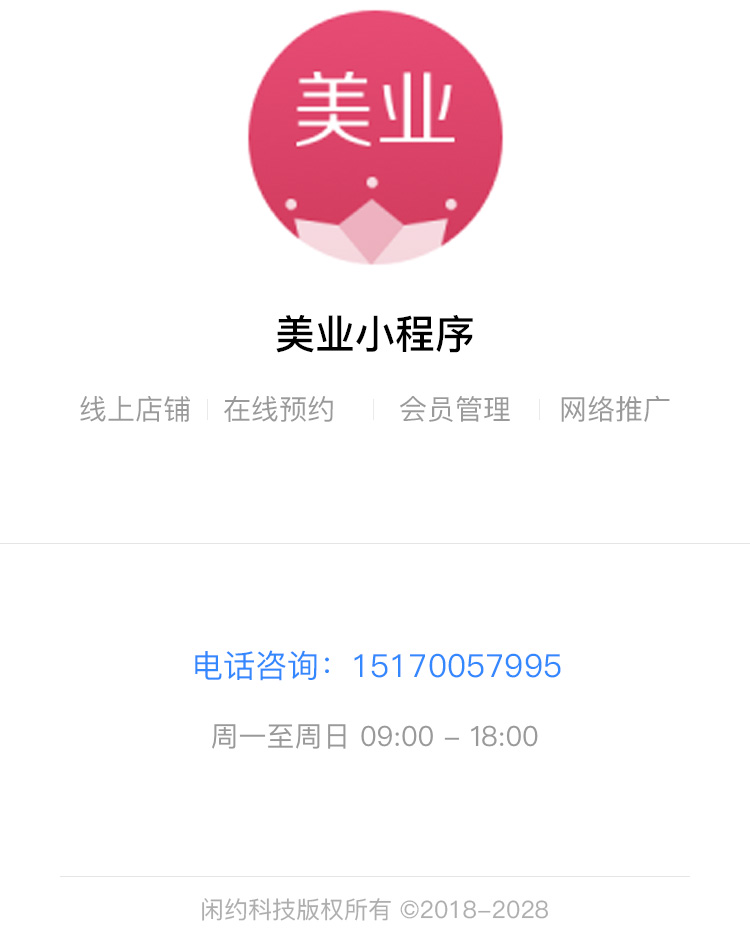
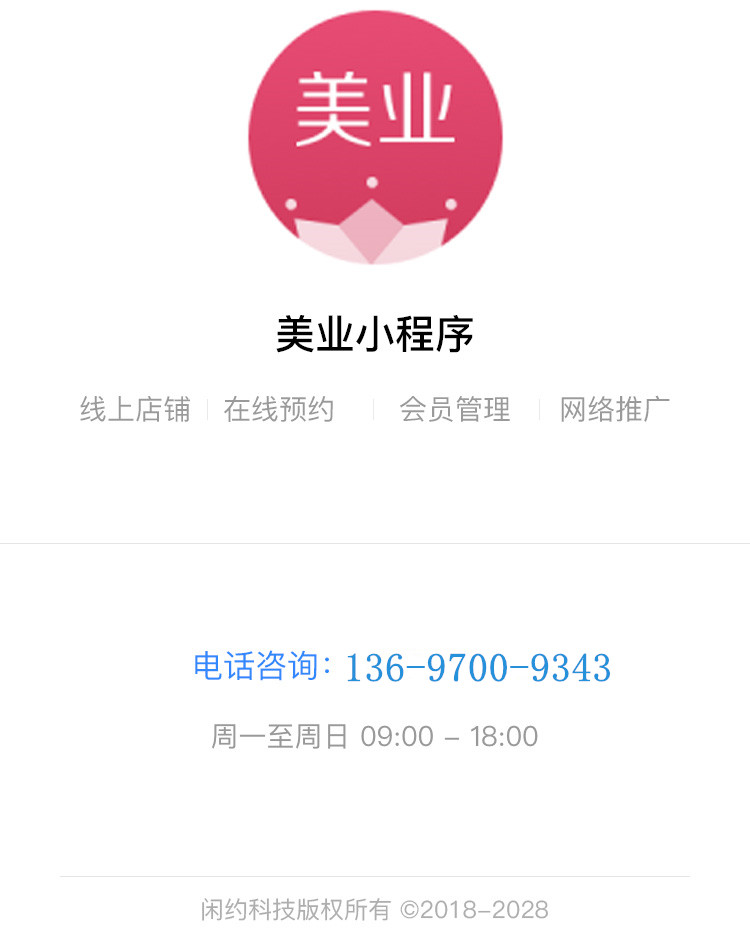
更换联系电话

Changed region(s): [[0.46, 0.6709, 0.828, 0.7319]]

diff --git a/packageA/company-introduction/company-introduction.js b/packageA/company-introduction/company-introduction.js
@@ -12,7 +12,7 @@ Page({
     },
     onClickPhoneCounsel:function(event){
         wx.makePhoneCall({
-            phoneNumber: '15170057995',
+            phoneNumber: '13697009343',
             success: function () {
                 console.log("成功拨打电话")
             }
